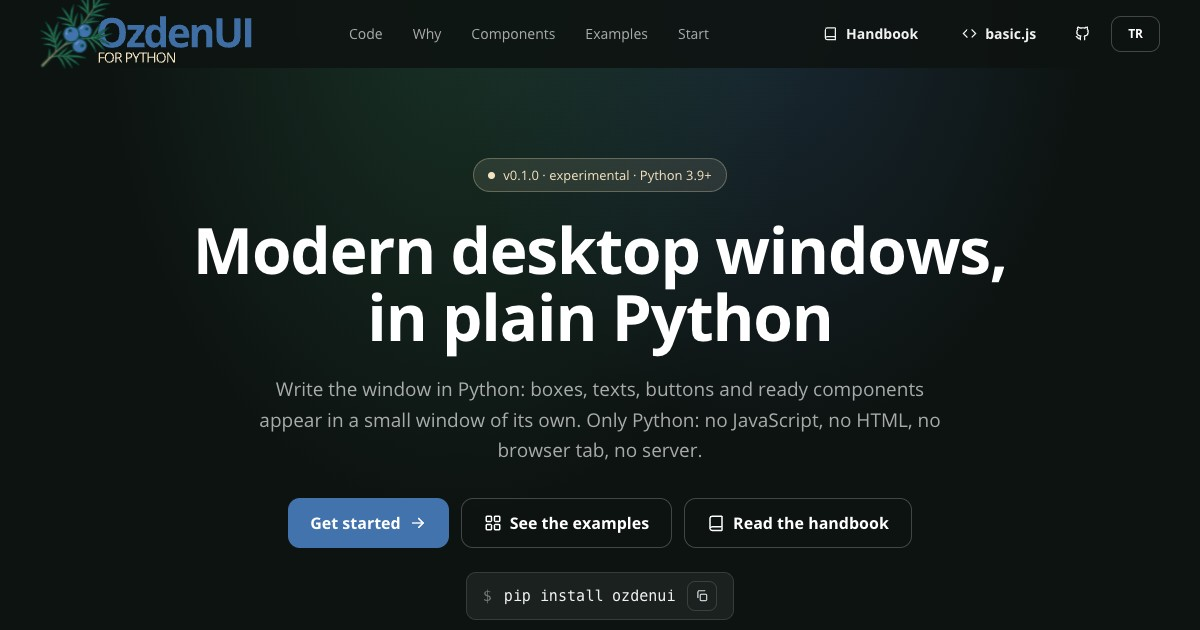
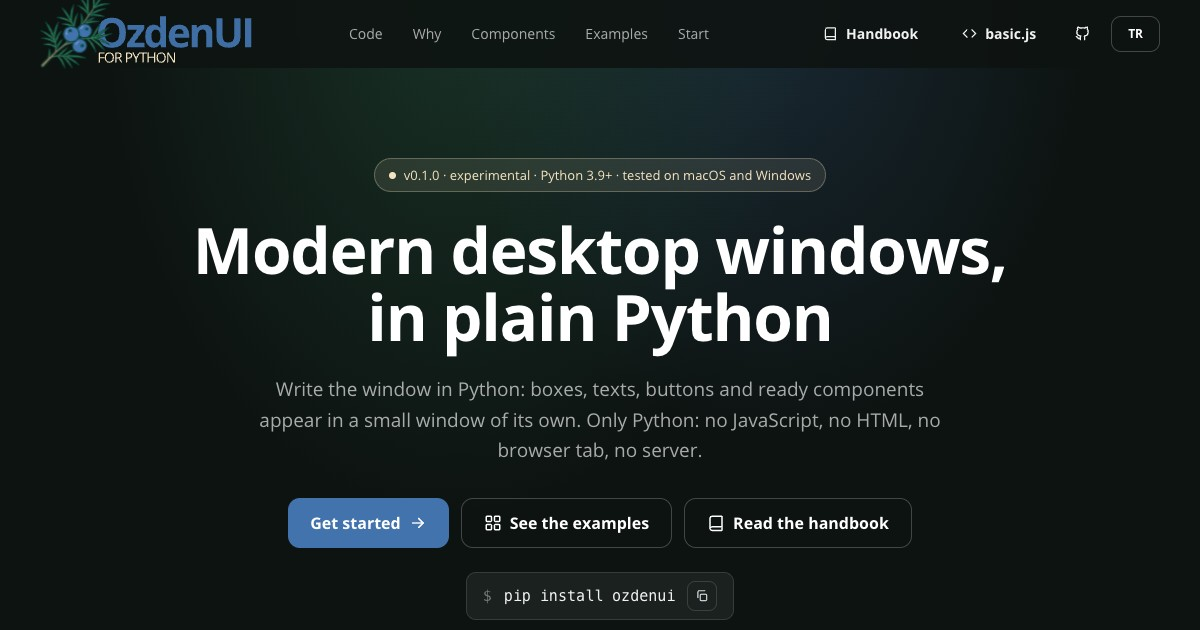
Site: v0.1.1, the handbook with the command for an AI assistant; the hero says where it is tested

Changed region(s): [[0.3083, 0.2413, 0.7092, 0.3317]]

diff --git a/docs/js/texts.js b/docs/js/texts.js
@@ -37,12 +37,12 @@ const TEXTS = {
         copyFailed: "The code could not be copied.",
 
         // HERO
-        heroEyebrow: "v{version} · experimental · Python {python}+",
+        heroEyebrow: "v{version} · experimental · Python {python}+ · tested\u00A0on\u00A0macOS\u00A0and\u00A0Windows", // WHY \u00A0: on a phone the platforms go to the second line together
         heroTitle: "Modern desktop windows, in\u00A0plain Python", // WHY \u00A0: the line breaks before "in", not after it
         heroLead: "Write the window in Python: boxes, texts, buttons and ready components appear in a small window of its own. Only Python: no JavaScript, no HTML, no browser tab, no server.",
         heroPrimary: "Get started",
         heroSecondary: "See the examples",
-        heroFacts: ["{classes} components with a Python class", "all {components} of basic.js by name", "{size} with its window", "{license}"],
+        heroFacts: ["{classes} components with a Python class", "all {components} of basic.js by name", "basic.js inside: about {size}, no internet", "{license}"],
         heroSlidesLabel: "The windows of the examples",
         heroShotAlts: {
             "hero-gallery-styled": "The window of examples/gallery-styled.py: buttons, a check box, a toggle, radio buttons, a drop-down list, a slider, a progress bar, a note field and lists, in the colors its code chose.",
@@ -69,7 +69,7 @@ const TEXTS = {
         whyEyebrow: "WHY",
         whyTitle: "Small, fast enough, easy to read",
         why: [
-            { icon: "feather", title: "Small and offline", text: "The package carries basic.js and its components. With its window it is about {size}; no internet, no server, no browser tab." },
+            { icon: "feather", title: "Small and offline", text: "The package carries basic.js and its components (about {size}); no internet, no server, no browser tab." },
             { icon: "bolt", title: "Fast enough to forget", text: "A click reaches your Python function and comes back on the screen in about {click}. The window shows in about {show}." },
             { icon: "code", title: "Code that reads like the window", text: "with blocks for groups, the names of basic.js, values read back without asking the window. An error points to your line." },
             { icon: "grid", title: "Components ready", text: "{classes} components have a Python class: buttons, fields, lists, a table, a chart, dialogs. All {components} of basic.js work with Component()." },
@@ -231,12 +231,12 @@ const TEXTS = {
         copyFailed: "Kod kopyalanamadı.",
 
         // HERO
-        heroEyebrow: "v{version} · deneysel · Python {python}+",
+        heroEyebrow: "v{version} · deneysel · Python {python}+ · macOS\u00A0ve\u00A0Windows'ta\u00A0denendi",
         heroTitle: "Düz Python ile modern masaüstü pencereleri",
         heroLead: "Pencereyi Python ile yazın: kutular, metinler, düğmeler ve hazır bileşenler kendi küçük penceresinde görünür. Yalnız Python: JavaScript yok, HTML yok, tarayıcı sekmesi ve sunucu yok.",
         heroPrimary: "Başlayın",
         heroSecondary: "Örneklere bakın",
-        heroFacts: ["Python sınıfı olan {classes} bileşen", "basic.js'in {components} bileşeninin hepsi adıyla", "penceresiyle birlikte {size}", "{license}"],
+        heroFacts: ["Python sınıfı olan {classes} bileşen", "basic.js'in {components} bileşeninin hepsi adıyla", "içinde basic.js: yaklaşık {size}, internetsiz", "{license}"],
         heroSlidesLabel: "Örneklerin pencereleri",
         heroShotAlts: {
             "hero-gallery-styled": "examples/gallery-styled.py'nin penceresi: düğmeler, onay kutusu, açma-kapama düğmesi, seçenek düğmeleri, açılır liste, kaydırıcı, ilerleme çubuğu, not alanı ve listeler, kodunun seçtiği renklerde.",
@@ -263,7 +263,7 @@ const TEXTS = {
         whyEyebrow: "NEDEN",
         whyTitle: "Küçük, yeterince hızlı, kolay okunan",
         why: [
-            { icon: "feather", title: "Küçük ve internetsiz", text: "Paket basic.js'i ve bileşenlerini içinde taşır. Penceresiyle birlikte yaklaşık {size}; internet, sunucu ve tarayıcı sekmesi gerekmez." },
+            { icon: "feather", title: "Küçük ve internetsiz", text: "Paket basic.js'i ve bileşenlerini içinde taşır (yaklaşık {size}); internet, sunucu ve tarayıcı sekmesi gerekmez." },
             { icon: "bolt", title: "Akla gelmeyecek kadar hızlı", text: "Bir tıklama Python fonksiyonunuza ulaşıp yaklaşık {click} içinde ekrana döner. Pencere yaklaşık yarım saniyede açılır." },
             { icon: "code", title: "Pencere gibi okunan kod", text: "Gruplar için with blokları, basic.js'in adları, pencereye sormadan okunan değerler. Bir hata sizin satırınızı gösterir." },
             { icon: "grid", title: "Hazır bileşenler", text: "{classes} bileşenin Python sınıfı var: düğmeler, alanlar, listeler, tablo, grafik, diyaloglar. basic.js'in {components} bileşeninin hepsi Component() ile çalışır." },

diff --git a/docs/index.htm b/docs/index.htm
@@ -155,7 +155,7 @@
                 <p><a href="?lang=tr" hreflang="tr" lang="tr" style="color: inherit;">Türkçe</a></p>
                 <h1>Modern desktop windows, in&nbsp;plain Python</h1>
                 <p>Write the window in Python: boxes, texts, buttons and ready components appear in a small window of its own. Only Python: no JavaScript, no HTML, no browser tab, no server.</p>
-                <p>v0.1.0 · experimental · Python 3.9+ · 53 components with a Python class · all 88 of basic.js by name · 12 MB with its window · Apache 2.0</p>
+                <p>v0.1.1 · experimental · Python 3.9+ · tested on macOS and Windows · 54 components with a Python class · all 88 of basic.js by name · basic.js inside: about 3 MB, no internet · Apache 2.0</p>
                 <p><a href="handbook/" style="color: inherit;">The handbook</a>: ten short chapters, from the first window to a component of your own, in English and Turkish.</p>
                 <h2>A counter in a few lines</h2>
                 <p>Groups place the objects for you, and a function given to a button runs in Python when it is clicked.</p>
@@ -166,10 +166,10 @@
                 </ul>
                 <h2>Small, fast enough, easy to read</h2>
                 <ul>
-                    <li><b>Small and offline.</b> The package carries basic.js and its components. With its window it is about 12 MB; no internet, no server, no browser tab.</li>
+                    <li><b>Small and offline.</b> The package carries basic.js and its components (about 3 MB); no internet, no server, no browser tab.</li>
                     <li><b>Fast enough to forget.</b> A click reaches your Python function and comes back on the screen in about 3 ms. The window shows in about 0.5 s.</li>
                     <li><b>Code that reads like the window.</b> with blocks for groups, the names of basic.js, values read back without asking the window. An error points to your line.</li>
-                    <li><b>Components ready.</b> 53 components have a Python class: buttons, fields, lists, a table, a chart, dialogs. All 88 of basic.js work with Component().</li>
+                    <li><b>Components ready.</b> 54 components have a Python class: buttons, fields, lists, a table, a chart, dialogs. All 88 of basic.js work with Component().</li>
                 </ul>
                 <h2>Ready components, Python classes</h2>
                 <p>SmartButton, TextField, EmailField, PasswordField, NumberField, UrlField, PhoneField, CurrencyField, TextAreaField, TagInput, SearchInput, CheckBox, Toggle, RadioButton, SelectBox, Slider, RangeSlider, SliderField, Stepper, DatePicker, TimePicker, ColorPicker, FilePicker, ProgressBar, StepBar, LoadingScreen, Canvas, ItemList, SortableList, SmartTable, DataTable, TreeView, Tabs, Accordion, SidePanel, ScrollArea, GridGroup, GraphBox, LogView, ImageView, MarkdownView, JsonView, JsonEditor, ChatView, WebView, MenuBar, ToolBar, ContextMenu, StatusBar, Splitter, CodeEditor, Tooltip, Dialog and Toast. Each one takes its params in snake_case and a Python function for a callback.</p>

diff --git a/docs/js/config.js b/docs/js/config.js
@@ -30,7 +30,7 @@ const CONFIG = {
 
     // *** THE PACKAGE:
     packageName: "ozdenui",
-    version: "0.1.0",
+    version: "0.1.1",
     // false until the package is on PyPI: the page says to install from the source (no "pip install" that fails)
     isOnPypi: true,
     pypiURL: "https://pypi.org/project/ozdenui/",
@@ -46,9 +46,11 @@ const CONFIG = {
 
     // *** FACTS: (measured on a Mac, 2026-11-03; ozdenui-python/plan.md)
     // WHY \u00A0: a number and its unit stay on one line
-    componentClasses: 53,
+    // the classes of ozdenui that are components of the kit; the names of web/components.js (88)
+    componentClasses: 54,
     componentCount: 88,
-    installSize: "12\u00A0MB",
+    // basic.js and its components in the package (ozdenui/web), the number of the README
+    installSize: "3\u00A0MB",
     clickTime: "3\u00A0ms",
     showTime: "0.5\u00A0s",
     license: "Apache 2.0",

diff --git a/docs/js/sections/hero.js b/docs/js/sections/hero.js
@@ -38,7 +38,13 @@ const HeroSection = function (params = {}) {
         that.borderColor = SITE.ACCENT_ON_DARK_LINE;
 
             Box({ width: 7, height: 7, round: 4, color: SITE.ACCENT_ON_DARK });
+            that.elem.style.flexShrink = "0"; // WHY: the dot stays round when the text goes on to two lines
             SITE.label(TEXTS.fill(T.heroEyebrow), { fontSize: 13, textColor: SITE.ACCENT_ON_DARK });
+            // WHY: the platforms make the pill wider than a phone: there it goes on to a second line
+            if (L.mobile) {
+                that.elem.style.whiteSpace = "normal";
+                that.elem.style.textAlign = "center";
+            }
 
         endGroup();
 

diff --git a/docs/handbook/js/config.js b/docs/handbook/js/config.js
@@ -23,7 +23,7 @@ const CONFIG = {
 
     // *** BRAND:
     brandName: "OzdenUI",
-    version: "0.1.0", // the version of the package (js/config.js of the page of the package has it too)
+    version: "0.1.1", // the version of the package (js/config.js of the page of the package has it too)
 
     // *** PATHS:
     // The root of the site (the page of the package) from the address of this page: it is always <site>/handbook/.

diff --git a/docs/handbook/turkce/10-going-further.md b/docs/handbook/turkce/10-going-further.md
@@ -82,6 +82,23 @@ komutlar sayfaya hemen gider. Uzun bir iş için `run_in_background()` daha iyid
 - PyInstaller ile tek dosya yapılan bir program, paketin dosyalarını ister (`--collect-data ozdenui`); bu henüz
   denenmedi.
 
+## Bir yapay zekâ asistanıyla
+
+OzdenUI yeni olduğu için bir yapay zekâ asistanı (Claude Code, Codex, Cursor, Copilot...) onu henüz tanımaz ve bildiği
+araçlardan tahmin yürütür. Tek bir komut, paketin kurallarını projenizin klasörüne yazar; asistan onları kendiliğinden
+okur:
+
+```
+python -m ozdenui agents              # AGENTS.md dosyasına
+python -m ozdenui agents CLAUDE.md    # Claude Code'un okuduğu dosyaya
+python -m ozdenui agents --print      # yalnızca yazdırır
+```
+
+- Kurallar kısadır: bir program nasıl kurulur, yerleşim, olaylar, bileşenler, kaçınılacak hatalar ve her sınıfın
+  parametrelerinin nerede olduğu.
+- Var olan bir dosyada satırlarınız kalır: kurallar dosyanın sonuna, iki işaretin arasına yazılır. Paketi
+  yükselttikten sonra komutu yeniden çalıştırın: yalnızca o bölüm değişir.
+
 ## Bundan sonra
 
 - Paket kaynağındaki **örnekler**, en küçüğünden başlayarak: `basics`, `counter`, `greeting`, `calculator`, `todo`,

diff --git a/docs/handbook/english/10-going-further.md b/docs/handbook/english/10-going-further.md
@@ -79,6 +79,23 @@ page at once. A long job is better in `run_in_background()` (chapter 4).
 - A program made into one file with PyInstaller needs the files of the package (`--collect-data ozdenui`); this has
   not been tried yet.
 
+## With an AI assistant
+
+OzdenUI is new, so an AI assistant (Claude Code, Codex, Cursor, Copilot...) does not know it yet and guesses from the
+toolkits it knows. One command writes the rules of the package into the folder of your project, where the assistant
+reads them by itself:
+
+```
+python -m ozdenui agents              # into AGENTS.md
+python -m ozdenui agents CLAUDE.md    # into the file Claude Code reads
+python -m ozdenui agents --print      # only prints them
+```
+
+- The rules are short: how a program is made, the layout, the events, the components, the mistakes to avoid, and where
+  the params of every class are.
+- A file that is there keeps your lines: the rules go to its end, between two marks. Run the command again after an
+  upgrade of the package: only that part changes.
+
 ## Where to go next
 
 - **The examples** of the package source, from the smallest: `basics`, `counter`, `greeting`, `calculator`, `todo`,
